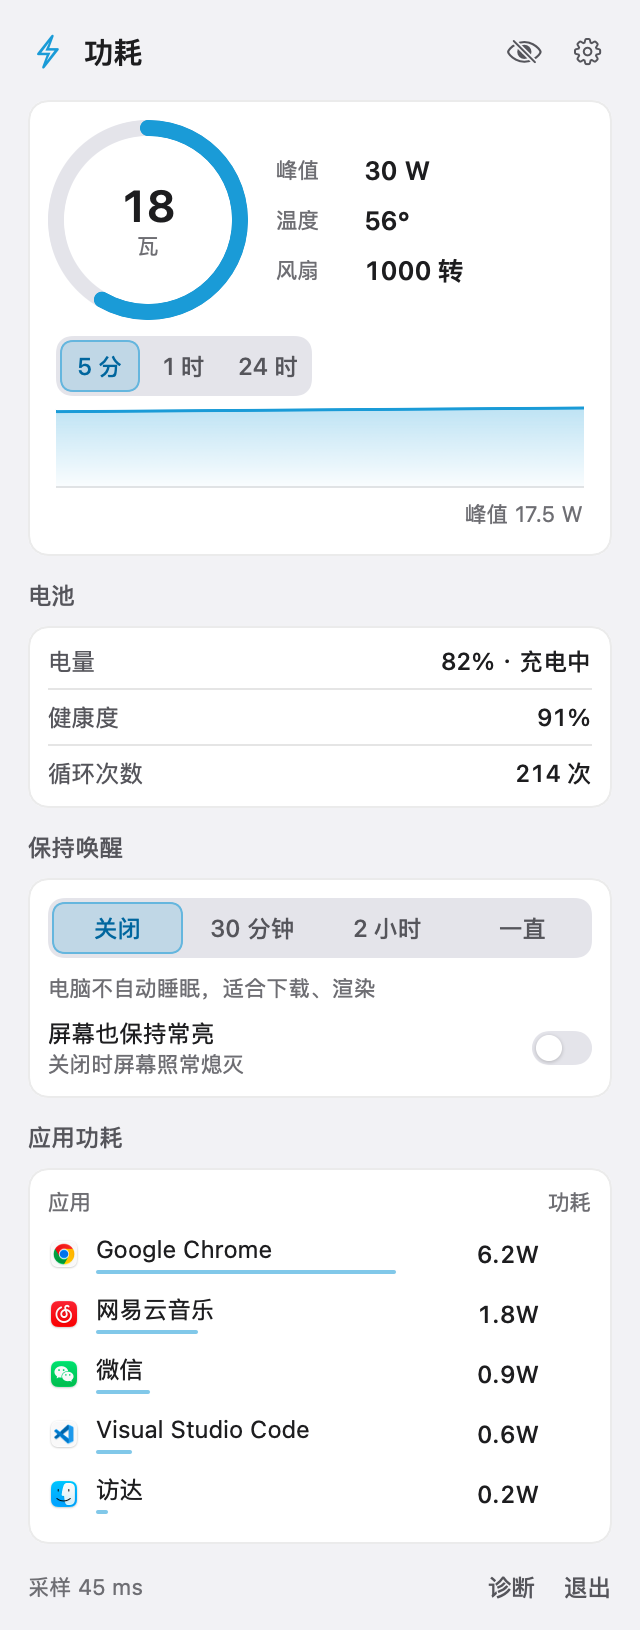
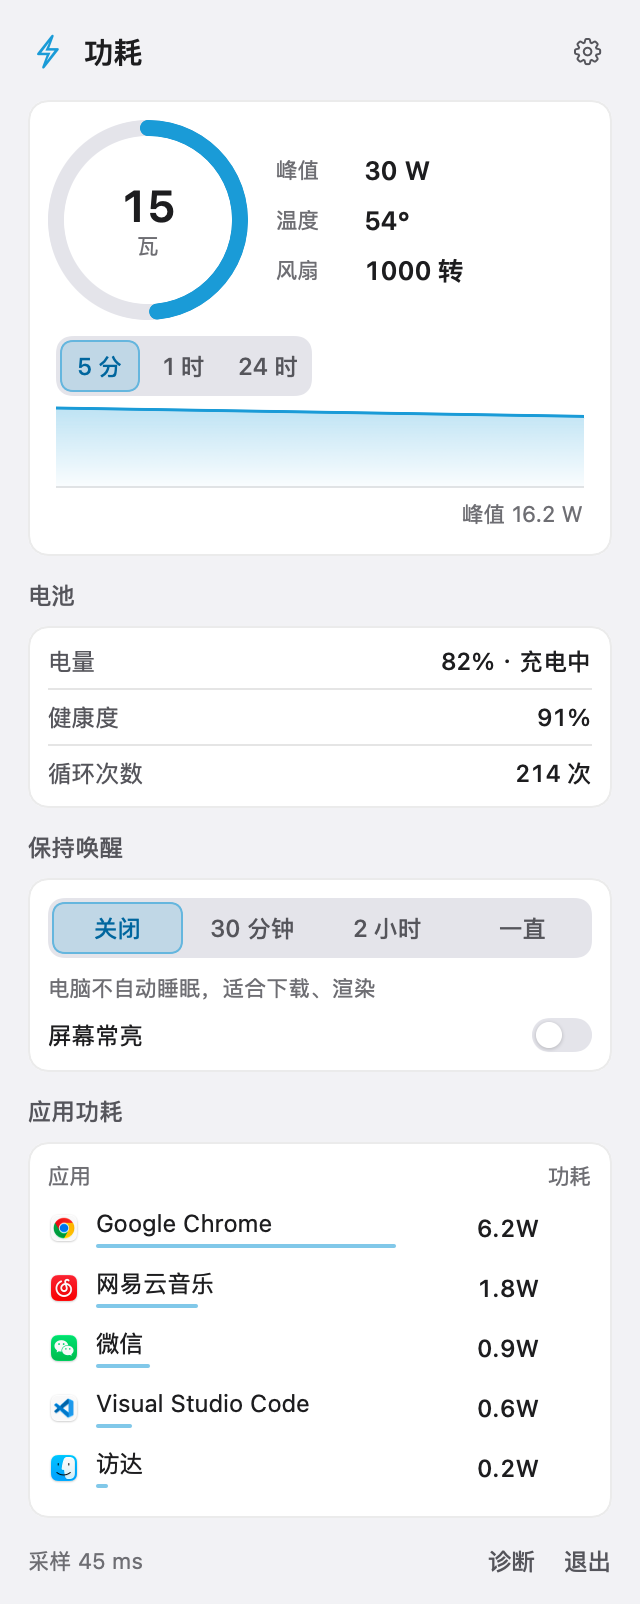
官网、README 与截图同步当前版本
- 截图重新生成：面板去掉眼睛按钮；灵动岛各状态改为分体胶囊（新装默认）；温度曲线改为设置里内嵌的编辑器；显示器为精简后的 HiDPI 档位
- README / 功能页：补充分体胶囊、刘海屏默认悬浮、右键「显示内容」；风扇曲线和规则改在设置里编辑；HiDPI 最多 4 档（133%～200%）、屏幕组合变化后切回原分辨率；去掉已取消的「圆形或圆角」
- 离屏渲染 islandstates 支持 split 参数，画分体胶囊

diff --git a/docs/hidpi.html b/docs/hidpi.html
@@ -4,16 +4,16 @@
 <meta charset="utf-8">
 <meta name="viewport" content="width=device-width, initial-scale=1">
 <title>Mac 外接 2K 显示器字体发虚，怎么开启 HiDPI - islet</title>
-<meta name="description" content="用免费开源的 islet：在「扩展功能」里打开外接屏的「HiDPI 支持」，它会添加 7 个与屏幕原生分辨率严格等比例的 HiDPI 档位，并切到按屏幕尺寸推荐的大小，2K、带鱼屏上的文字会细腻很多。">
+<meta name="description" content="用免费开源的 islet：在「扩展功能」里打开外接屏的「HiDPI 支持」，它会添加最多 4 个与屏幕原生分辨率严格等比例的 HiDPI 档位（界面放大 133%～200%），并切到按屏幕尺寸推荐的大小，2K、带鱼屏上的文字会细腻很多。">
 <link rel="canonical" href="https://buerxzhang.github.io/islet/hidpi.html">
 <meta property="og:type" content="website">
 <meta property="og:title" content="Mac 外接 2K 显示器字体发虚，怎么开启 HiDPI - islet">
-<meta property="og:description" content="用免费开源的 islet：在「扩展功能」里打开外接屏的「HiDPI 支持」，它会添加 7 个与屏幕原生分辨率严格等比例的 HiDPI 档位，并切到按屏幕尺寸推荐的大小，2K、带鱼屏上的文字会细腻很多。">
+<meta property="og:description" content="用免费开源的 islet：在「扩展功能」里打开外接屏的「HiDPI 支持」，它会添加最多 4 个与屏幕原生分辨率严格等比例的 HiDPI 档位（界面放大 133%～200%），并切到按屏幕尺寸推荐的大小，2K、带鱼屏上的文字会细腻很多。">
 <meta property="og:url" content="https://buerxzhang.github.io/islet/hidpi.html">
 <meta property="og:image" content="https://buerxzhang.github.io/islet/screenshots/hero.png">
 <link rel="icon" href="icon.png">
 <link rel="stylesheet" href="style.css">
-<script type="application/ld+json">{"@context": "https://schema.org", "@type": "FAQPage", "mainEntity": [{"@type": "Question", "name": "Mac 外接 2K 显示器字体发虚，怎么开启 HiDPI", "acceptedAnswer": {"@type": "Answer", "text": "用免费开源的 islet：在「扩展功能」里打开外接屏的「HiDPI 支持」，它会添加 7 个与屏幕原生分辨率严格等比例的 HiDPI 档位，并切到按屏幕尺寸推荐的大小，2K、带鱼屏上的文字会细腻很多。"}}]}</script>
+<script type="application/ld+json">{"@context": "https://schema.org", "@type": "FAQPage", "mainEntity": [{"@type": "Question", "name": "Mac 外接 2K 显示器字体发虚，怎么开启 HiDPI", "acceptedAnswer": {"@type": "Answer", "text": "用免费开源的 islet：在「扩展功能」里打开外接屏的「HiDPI 支持」，它会添加最多 4 个与屏幕原生分辨率严格等比例的 HiDPI 档位（界面放大 133%～200%），并切到按屏幕尺寸推荐的大小，2K、带鱼屏上的文字会细腻很多。"}}]}</script>
 </head>
 <body>
 <header class="top"><div class="wrap">
@@ -24,7 +24,7 @@
 <article>
 <div class="crumb"><a href="./">islet</a> / 外接屏 HiDPI</div>
 <h1>Mac 外接 2K 显示器字体发虚，怎么开启 HiDPI</h1>
-<div class="answer"><p>用免费开源的 islet：在「扩展功能」里打开外接屏的「HiDPI 支持」，它会添加 7 个与屏幕原生分辨率严格等比例的 HiDPI 档位，并切到按屏幕尺寸推荐的大小，2K、带鱼屏上的文字会细腻很多。</p></div>
+<div class="answer"><p>用免费开源的 islet：在「扩展功能」里打开外接屏的「HiDPI 支持」，它会添加最多 4 个与屏幕原生分辨率严格等比例的 HiDPI 档位（界面放大 133%～200%），并切到按屏幕尺寸推荐的大小，2K、带鱼屏上的文字会细腻很多。</p></div>
 
 
 <h2>为什么 2K 屏接 Mac 字体发虚</h2>
@@ -34,14 +34,14 @@
 <ol>
 <li>安装并打开 islet（<a href="https://github.com/Buerxzhang/islet/releases/latest">下载</a>）。</li>
 <li>在设置的「扩展功能」页找到这块外接屏，打开「HiDPI 支持」，按提示输入管理员密码。</li>
-<li>islet 会添加 7 个与原生分辨率严格等比例的 HiDPI 档位，并自动切到按屏幕尺寸推荐的大小。</li>
+<li>islet 会添加最多 4 个与原生分辨率严格等比例的 HiDPI 档位（界面放大 133%～200%），并自动切到按屏幕尺寸推荐的大小。</li>
 </ol>
 <p>关掉「HiDPI 支持」只会删除 islet 自己写入的配置，不动系统的其他设置。</p>
 
 <h2>分辨率切换更直观</h2>
 <ul>
-<li>每块屏一排分辨率卡片，原生在最左，往右文字越来越大。</li>
-<li>标出「推荐」「原生」和界面放大比例，以及当前是 HiDPI 还是普通模式、实际按多大尺寸绘制。</li>
+<li>每块屏一排分辨率卡片，从左到右文字越来越大；默认最多列 5 档，其余档位和普通分辨率收在「更多分辨率」里。</li>
+<li>标出「推荐」和界面放大比例，以及当前是 HiDPI 还是普通模式、实际按多大尺寸绘制。</li>
 <li>切换后 15 秒内不确认会自动恢复，不怕切到看不清的分辨率。</li>
 </ul>
 

diff --git a/docs/notch-island.html b/docs/notch-island.html
@@ -37,13 +37,14 @@
 <figure class="shot bar"><img src="screenshots/island-notch-metrics.png" width="760" alt="刘海屏上的 islet：指标和蓝牙电量圆环" loading="lazy"><figcaption>指标 + 蓝牙电量</figcaption></figure>
 
 <h2>可以悬浮在刘海下方</h2>
-<p>打开「悬浮显示」，胶囊会从菜单栏里拿出来，居中悬浮在刘海或菜单栏正下方。可以选择在全屏视频和游戏上也保持显示，或者打开「自由拖动」，放到屏幕任意位置。</p>
+<p>刘海屏右侧的菜单栏图标常被藏到刘海后面，所以刘海屏上新装 islet 默认「悬浮显示」：胶囊从菜单栏里拿出来，居中悬浮在刘海正下方；不想悬浮，右键选「在菜单栏显示」即可。可以选择在全屏视频和游戏上也保持显示，或者打开「自由拖动」，放到屏幕任意位置。</p>
 
 <h2>样式可调</h2>
 <ul>
 <li>胶囊底色可选专辑色、渐变或黑色，改动会实时显示在岛上。</li>
 <li>可以只显示音乐：平时看不到胶囊，有声音时才展开。</li>
-<li>胶囊上右键，可以快速打开设置、切换悬浮显示和在菜单栏显示。</li>
+<li>默认是分体胶囊：音乐、系统指标、蓝牙电量各成一个小胶囊；关掉「分体胶囊」就合成一整枚。</li>
+<li>胶囊上右键：隐藏点到的指标或模块，在「显示内容」里逐项勾选，切换分体胶囊、悬浮显示和在菜单栏显示。</li>
 </ul>
 
 <div class="actions"><a class="btn primary" href="https://github.com/Buerxzhang/islet/releases/latest">免费下载 islet</a><a class="btn" href="./">了解 islet 的全部功能</a></div>

diff --git a/docs/index.html b/docs/index.html
@@ -41,7 +41,7 @@
 <p class="lead">免费开源的 macOS 菜单栏工具。CPU、内存、网速这些常看的数字，正在播放的音乐和频谱，蓝牙耳机、键盘、鼠标的电量，都收进菜单栏里的一枚胶囊。</p>
 <div class="actions"><a class="btn primary" href="https://github.com/Buerxzhang/islet/releases/latest">免费下载</a><a class="btn" href="https://github.com/Buerxzhang/islet" target="_blank" rel="noopener">在 GitHub 查看源码</a></div>
 <p class="meta">支持 Apple 芯片和 Intel · macOS 14 或更新版本 · MIT 开源</p>
-<p class="meta desk-only">试试点右上角菜单栏里的灵动岛 · 示例数据</p>
+<p class="meta desk-only">试试点屏幕上方的灵动岛，右键看看菜单 · 示例数据</p>
 </div>
 <figure class="shot page-only"><img src="screenshots/hero.png" width="860" alt="菜单栏里的 islet，下面是点开后的音乐和网速面板"></figure>
 

diff --git a/Sources/App/Render.swift b/Sources/App/Render.swift
@@ -85,7 +85,7 @@ enum RenderTargets {
     }
 
     /// README 用：灵动岛的各种状态，每种一张图（3 倍），画在菜单栏底色上。
-    /// --render islandstates <输出目录>
+    /// --render islandstates <输出目录> [split]（split：画成分体胶囊，新装默认的样子）
     private static func islandStates(_ launchArguments: [String]) {
         let dir = URL(fileURLWithPath: launchArguments[3], isDirectory: true)
         try? FileManager.default.createDirectory(at: dir, withIntermediateDirectories: true)
@@ -151,6 +151,7 @@ enum RenderTargets {
         }
         for state in states {
             let view = MetricsIslandView(frame: .zero)
+            view.split = launchArguments.contains("split")
             view.segments = state.segments
             view.trailing = state.trailing
             var bars: SpectrumBarsView?

diff --git a/docs/system-monitor.html b/docs/system-monitor.html
@@ -36,7 +36,7 @@
 <li><strong>磁盘</strong>：读写速度、启动盘用量，NVMe 硬盘的 SMART 状态。</li>
 <li><strong>帧率</strong>（可选）：前台窗口所在屏幕每秒画面变化的次数。</li>
 </ul>
-<p>显示哪些指标、按什么顺序排，都可以在设置里拖动调整；不想看的项目可以一键隐藏。</p>
+<p>显示哪些指标、按什么顺序排，都可以在设置里拖动调整；不想看的指标在胶囊上右键就能隐藏，右键菜单的「显示内容」里随时勾回来。</p>
 
 <h2>点开是详细面板</h2>
 <p>每个指标都有自己的面板，提供 5 分钟、1 小时、24 小时三个走势视图。CPU、GPU、内存、磁盘读写、功耗和网速都有应用排行，一眼找到是谁在占资源，鼠标移上去还能直接结束它。</p>

diff --git a/docs/music-spectrum.html b/docs/music-spectrum.html
@@ -38,7 +38,7 @@
 <h2>面板里还能做什么</h2>
 <ul>
 <li>调音量、静音，点一下切换输出设备。</li>
-<li>频谱用竖条或点阵，圆形或圆角；颜色取专辑色、图标色或白色；封面可以像黑胶一样边播边转。</li>
+<li>频谱用竖条或点阵；颜色取专辑色、图标色或白色；封面可以像黑胶一样边播边转。</li>
 <li>灵敏度分低、标准、高三档，安静的歌调高也能跳得明显。</li>
 <li>点放大按钮进入全屏频谱：封面做模糊背景，频谱铺满屏幕底部。</li>
 </ul>

diff --git a/docs/smooth-scroll.html b/docs/smooth-scroll.html
@@ -41,7 +41,7 @@
 <ul>
 <li><strong>滚动距离</strong>：短、中、长三档。</li>
 <li><strong>平滑程度</strong>：低、中、高三档，越高越柔和。</li>
-<li><strong>反转鼠标方向</strong>：只反转鼠标，不影响触控板的「自然滚动」。</li>
+<li><strong>反转滚动方向</strong>：只影响鼠标滚轮，不影响触控板的「自然滚动」。</li>
 </ul>
 <p>检测到其他平滑滚动工具在运行时，islet 会自动让开，避免两边叠加成双倍距离。胶囊上右键也能快速开关平滑滚动。</p>
 
